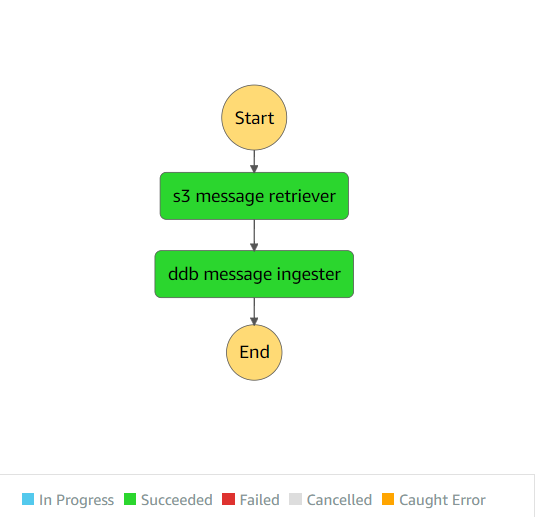
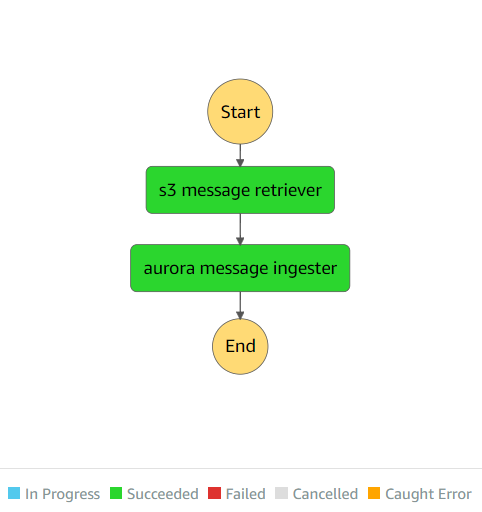
init commit

Changed region(s): [[0.249, 0.1562, 0.7469, 0.75], [0.0, 0.9375, 0.9647, 1.0]]

diff --git a/lib/project-stack.ts b/lib/project-stack.ts
@@ -8,8 +8,8 @@ import { Queue } from '@aws-cdk/aws-sqs';
 import { SqsEventSource } from '@aws-cdk/aws-lambda-event-sources';
 import { SqsDestination } from '@aws-cdk/aws-s3-notifications';
 import { Role, ServicePrincipal, PolicyDocument, PolicyStatement, Effect } from '@aws-cdk/aws-iam';
-import {Vpc} from '@aws-cdk/aws-ec2';
-import {ServerlessCluster,DatabaseClusterEngine,ParameterGroup} from '@aws-cdk/aws-rds';
+import { Vpc } from '@aws-cdk/aws-ec2';
+import { ServerlessCluster, DatabaseClusterEngine, ParameterGroup } from '@aws-cdk/aws-rds';
 
 const RUNTIME_DURATION: number = 5; // in minutes
 
@@ -19,37 +19,50 @@ export class ProjectStack extends Stack {
     constructor(scope: Construct, id: string, props?: StackProps) {
         super(scope, id, props);
         this.id = id;
-        const appName = scope.node.tryGetContext('AppName');
-       
-
+        /**
+         * SQS queue
+         */
         const queue = new Queue(this, `${id}-s3-event-notification-queue`, {
             queueName: 's3-event-notification-queue',
             visibilityTimeout: Duration.minutes(RUNTIME_DURATION),
             deliveryDelay: Duration.seconds(1),
             receiveMessageWaitTime: Duration.seconds(1)
         });
-        
-        const s3BucketName =scope.node.tryGetContext('RawDataBucketName');    
+
+        /**
+         * S3 Bucket
+         */
+        const s3BucketName = scope.node.tryGetContext('RawDataBucketName');
         const rawDataBucket = new Bucket(this, `${id}-raw-data-bucket`, {
             bucketName: `${s3BucketName}-${this.region}`
         });
 
-        rawDataBucket.addEventNotification(EventType.OBJECT_CREATED, new SqsDestination(queue), {            
+        rawDataBucket.addEventNotification(EventType.OBJECT_CREATED, new SqsDestination(queue), {
             suffix: '.json'
         });
 
-    const dbName=scope.node.tryGetContext('DataBaseName');
-    // Create the VPC needed for the Aurora Serverless DB cluster
-    const vpc = new Vpc(this, `${id}-data-ingestion-vpc`);
-    // Create the Serverless Aurora DB cluster; set the engine to Postgres
-    const cluster = new ServerlessCluster(this, 'AuroraDataCluster', {
-      engine: DatabaseClusterEngine.AURORA_POSTGRESQL,
-      parameterGroup: ParameterGroup.fromParameterGroupName(this, 'ParameterGroup', 'default.aurora-postgresql10'),
-      defaultDatabaseName: dbName,
-      vpc,
-      scaling: { autoPause: Duration.seconds(0) } // Optional. If not set, then instance will pause after 5 minutes 
-    });
+        /**
+         * Serverless Aurora PostgreSQL
+         */
+        const dbName = scope.node.tryGetContext('DataBaseName');
+        // Create the VPC needed for the Aurora Serverless DB cluster
+        const vpc = new Vpc(this, `${id}-data-ingestion-vpc`);
+        // Create the Serverless Aurora DB cluster; set the engine to Postgres
+        const cluster = new ServerlessCluster(this, 'AuroraDataCluster', {
+            engine: DatabaseClusterEngine.AURORA_POSTGRESQL,
+            parameterGroup: ParameterGroup.fromParameterGroupName(
+                this,
+                'ParameterGroup',
+                'default.aurora-postgresql10'
+            ),
+            defaultDatabaseName: dbName,
+            vpc,
+            scaling: { autoPause: Duration.seconds(0) } // Optional. If not set, then instance will pause after 5 minutes
+        });
 
+        /**
+         * IAM role for Step Function Lambda
+         */
         const stepFunctionLambdaRole = new Role(this, id, {
             assumedBy: new ServicePrincipal('lambda.amazonaws.com'),
             inlinePolicies: {
@@ -64,7 +77,7 @@ export class ProjectStack extends Stack {
                             effect: Effect.ALLOW,
                             actions: ['s3:GetObject'],
                             resources: [`arn:aws:s3:::${rawDataBucket.bucketName}/*`]
-                        }),                       
+                        }),
                         new PolicyStatement({
                             effect: Effect.ALLOW,
                             actions: ['logs:*'],
@@ -86,11 +99,14 @@ export class ProjectStack extends Stack {
         const stepFunctionLambdaCommonEnvProps = {
             CLUSTER_ARN: cluster.clusterArn,
             SECRET_ARN: cluster.secret?.secretArn || '',
-            DB_NAME:dbName ,
-            TABLE_NAME:scope.node.tryGetContext('RawDataTableName'),
+            DB_NAME: dbName,
+            TABLE_NAME: scope.node.tryGetContext('RawDataTableName'),
             AWS_NODEJS_CONNECTION_REUSE_ENABLED: '1'
         };
 
+        /**
+         * S3 objectrRetrieval Lambda
+         */
         const s3MessageRetrieverLambda = new Function(this, `${id}-s3-message-retrieval-function`, {
             ...lambdaCommonProps,
             functionName: 's3-message-retrieval-lambda',
@@ -102,31 +118,40 @@ export class ProjectStack extends Stack {
             }
         });
 
-        const ddbMessageIngestionLambda = new Function(this, `${id}-rds-message-ingestion-function`, {
+        /**
+         * PostgreSQL data ingestion Lambda
+         */
+        const auroraMessageIngestionLambda = new Function(this, `${id}-aurora-message-ingestion-function`, {
             ...lambdaCommonProps,
-            functionName: 'rds-message-ingestion-lambda',
-            handler: 'rds-message-ingestion-lambda.handler',
+            functionName: 'aurora-message-ingestion-lambda',
+            handler: 'aurora-message-ingestion-lambda.handler',
             role: stepFunctionLambdaRole,
             environment: stepFunctionLambdaCommonEnvProps
         });
 
-        cluster.grantDataApiAccess(ddbMessageIngestionLambda);
+        cluster.grantDataApiAccess(auroraMessageIngestionLambda);
 
         const s3MessageRretriever = new LambdaInvoke(this, 's3 message retriever', {
             lambdaFunction: s3MessageRetrieverLambda
         });
 
-        const ddbMessageIngester = new LambdaInvoke(this, 'ddb message ingester', {
-            lambdaFunction: ddbMessageIngestionLambda
+        const ddbMessageIngester = new LambdaInvoke(this, 'aurora message ingester', {
+            lambdaFunction: auroraMessageIngestionLambda
         });
 
         const chain = Chain.start(s3MessageRretriever).next(ddbMessageIngester);
 
+        /**
+         * State Machine definition
+         */
         const stateMachine = new StateMachine(this, 'message-ingestion-state-machine', {
             definition: chain,
             stateMachineName: 'message-ingestion-state-machine'
         });
 
+        /**
+         * SQS event source Lambda
+         */
         const sqsEventListnerLambda = new Function(this, `${id}-sqs-event-listner-function`, {
             ...lambdaCommonProps,
             functionName: 'sqs-event-listner',

diff --git a/src/service.ts b/src/service.ts
@@ -2,8 +2,18 @@ import { partitionRecords, getObject, batchInsert, ParamType } from './utils';
 
 const currentDate: string = new Date().toISOString().split('T')[0];
 
+/**
+ * 
+ * @param s3Records 
+ */
 export async function ingestData(s3Records: S3Record[]) {
+    /**
+     * Partition records into batchers (default batch size 10)
+     */
     const partitionedS3Records: S3Record[][] = partitionRecords(s3Records);
+    /**
+     * Parallelly execute the batch
+     */
     await Promise.all(
         partitionedS3Records.map(async (s3RecordBatch: S3Record[]) => {
             await ingestDataBatch(s3RecordBatch);
@@ -11,6 +21,10 @@ export async function ingestData(s3Records: S3Record[]) {
     );
 }
 
+/**
+ * Batch Insert data into Aurora PostgreSQL
+ * @param s3Records S3 key as 'key' S3 data as 'value'
+ */
 async function ingestDataBatch(s3Records: S3Record[]) {
     const params: Array<Array<ParamType>> = new Array<Array<ParamType>>();
     for (const s3Record of s3Records) {
@@ -25,10 +39,21 @@ async function ingestDataBatch(s3Records: S3Record[]) {
     await batchInsert(params);
 }
 
+/**
+ * Retrieve S3 objects
+ * @param s3Keys 
+ * @returns 
+ */
 export async function getS3Objects(s3Keys: string[]): Promise<Array<S3Record>> {
     const s3Records: Array<S3Record> = new Array<S3Record>();
+    /**
+     * Partition records into batchers (default batch size 10)
+     */
     const partitionedS3Keys: string[][] = partitionRecords(s3Keys);
     for (const partitionedList of partitionedS3Keys) {
+        /**
+         * Parallelly execute the batch
+         */
         await Promise.all(
             partitionedList.map(async (s3Key: string) => {
                 const body = await getObject(s3Key);

diff --git a/src/sqs-event-listener-lambda.ts b/src/sqs-event-listener-lambda.ts
@@ -3,9 +3,18 @@ import { SFNClient, StartExecutionCommand } from '@aws-sdk/client-sfn';
 
 const client = new SFNClient({ region: 'eu-west-1' });
 
+/**
+ * SQS event source Lambda
+ * @param event
+ * @param context
+ * @returns
+ */
 export async function handler(event: SQSEvent, context: Context) {
     try {
         console.log(`event ${JSON.stringify(event, null, 2)}`);
+        /**
+         * Collect batch of S3 keys
+         */
         const s3Keys: Array<string> = new Array<string>();
         for (const record of event.Records) {
             const bodyJson = JSON.parse(record.body);
@@ -14,6 +23,9 @@ export async function handler(event: SQSEvent, context: Context) {
                 s3Keys.push(record.s3.object.key);
             }
         }
+        /**
+         * Execute state machine with event as S3 Object key batch
+         */
         const command = new StartExecutionCommand({
             input: JSON.stringify(s3Keys),
             stateMachineArn: process.env.STATE_MACHINE_ARN

diff --git a/webpack.config.ts b/webpack.config.ts
@@ -6,7 +6,7 @@ const config: Configuration = {
     entry: {       
         'sqs-event-listener-lambda':'./src/sqs-event-listener-lambda.ts',
         's3-messages-retrieval-lambda':'./src/s3-messages-retrieval-lambda.ts',
-        'rds-message-ingestion-lambda':'./src/rds-message-ingestion-lambda.ts'
+        'aurora-message-ingestion-lambda':'./src/aurora-message-ingestion-lambda.ts'
     },
     devtool: 'inline-source-map',
     plugins: [],

diff --git a/src/s3-messages-retrieval-lambda.ts b/src/s3-messages-retrieval-lambda.ts
@@ -1,6 +1,12 @@
 import { Context } from 'aws-lambda';
 import { getS3Objects, S3Record } from './service';
 
+/**
+ * Retrieve S3 Objects in batches
+ * @param event
+ * @param context
+ * @returns
+ */
 export async function handler(event: any, context: Context): Promise<string> {
     try {
         console.log(`event ${JSON.stringify(event, null, 2)}`);

diff --git a/src/aurora-message-ingestion-lambda.ts b/src/aurora-message-ingestion-lambda.ts
@@ -1,6 +1,11 @@
 import { Context } from 'aws-lambda';
 import { ingestData, S3Record } from './service';
 
+/**
+ * Ingest data into Aurora PostgreSQL engine by batches
+ * @param event
+ * @param context
+ */
 export async function handler(event: any, context: Context) {
     try {
         const { Payload } = JSON.parse(JSON.stringify(event));

diff --git a/README.md b/README.md
@@ -18,7 +18,7 @@ The proposed solution is a production-ready AWS fully managed scalable serverles
 -   `Step Function` process S3 Object Create events in batches, retrieve the S3 Objects, and ingest data into PostgreSQL.
 
     -   Batch Process S3 Lambda code [here](./src/s3-messages-retrieval-lambda.ts)
-    -   Batch Ingest Data Lambda code [here](./src/rds-message-ingestion-lambda.ts)
+    -   Batch Ingest Data Lambda code [here](./src/aurora-message-ingestion-lambda.ts)
 
 -   `CDK` for Infrastructure provisioning and deployment code [here](./lib/project-stack.ts)
 
@@ -80,20 +80,19 @@ This stack uses **_assets_**, therefore the toolkit stack (CDKToolkit) therefore
 ```
 
 ```
-> cdk deploy
+> cdk deploy --o cdk-exports.json
 ```
 
 ### Create the raw_data table
 
-Visit the RDS dashboard and click on Query Editor. From the dropdown menu, choose the database (it should begin with `dataingestionservice-auroradatacluster`).
+**_ Connect to Database _**
 
-For the Database username, choose Connect with a Secrets Manager ARN.
+-   Select `Query Editor` from `RDS dashboard` .
+-   Select the database begins with `dataingestionservice-auroradatacluster` fromm the dropdown menu.
+-   For the Database username, select `Connect with a Secrets Manager ARN` (use the secret ARN begins with `AuroraDataClusterSecret` from `Secrets manager` as the Secrets Manager ARN).
+-   For the default configuration Use `RawDataDB` as the database name.
 
-To sign in, you will need the ARN from the secret that was created by CDK. To get this secret, in a new window open AWS Secrets manager. Here, click on the secret that was created by CDK (it should start with `AuroraDataClusterSecret`). Copy the Secret ARN to your clipboard and go back to the RDS Query Editor.
-
-Next, use the Secret ARN as the Secrets Manager ARN and RawDataDB as the name of the database. Next, press enter and click on Connect to Database.
-
-Once signed in, create the posts table by executing the following query:
+**_ Create Table Script _**
 
 ```
     CREATE TABLE raw_data (
